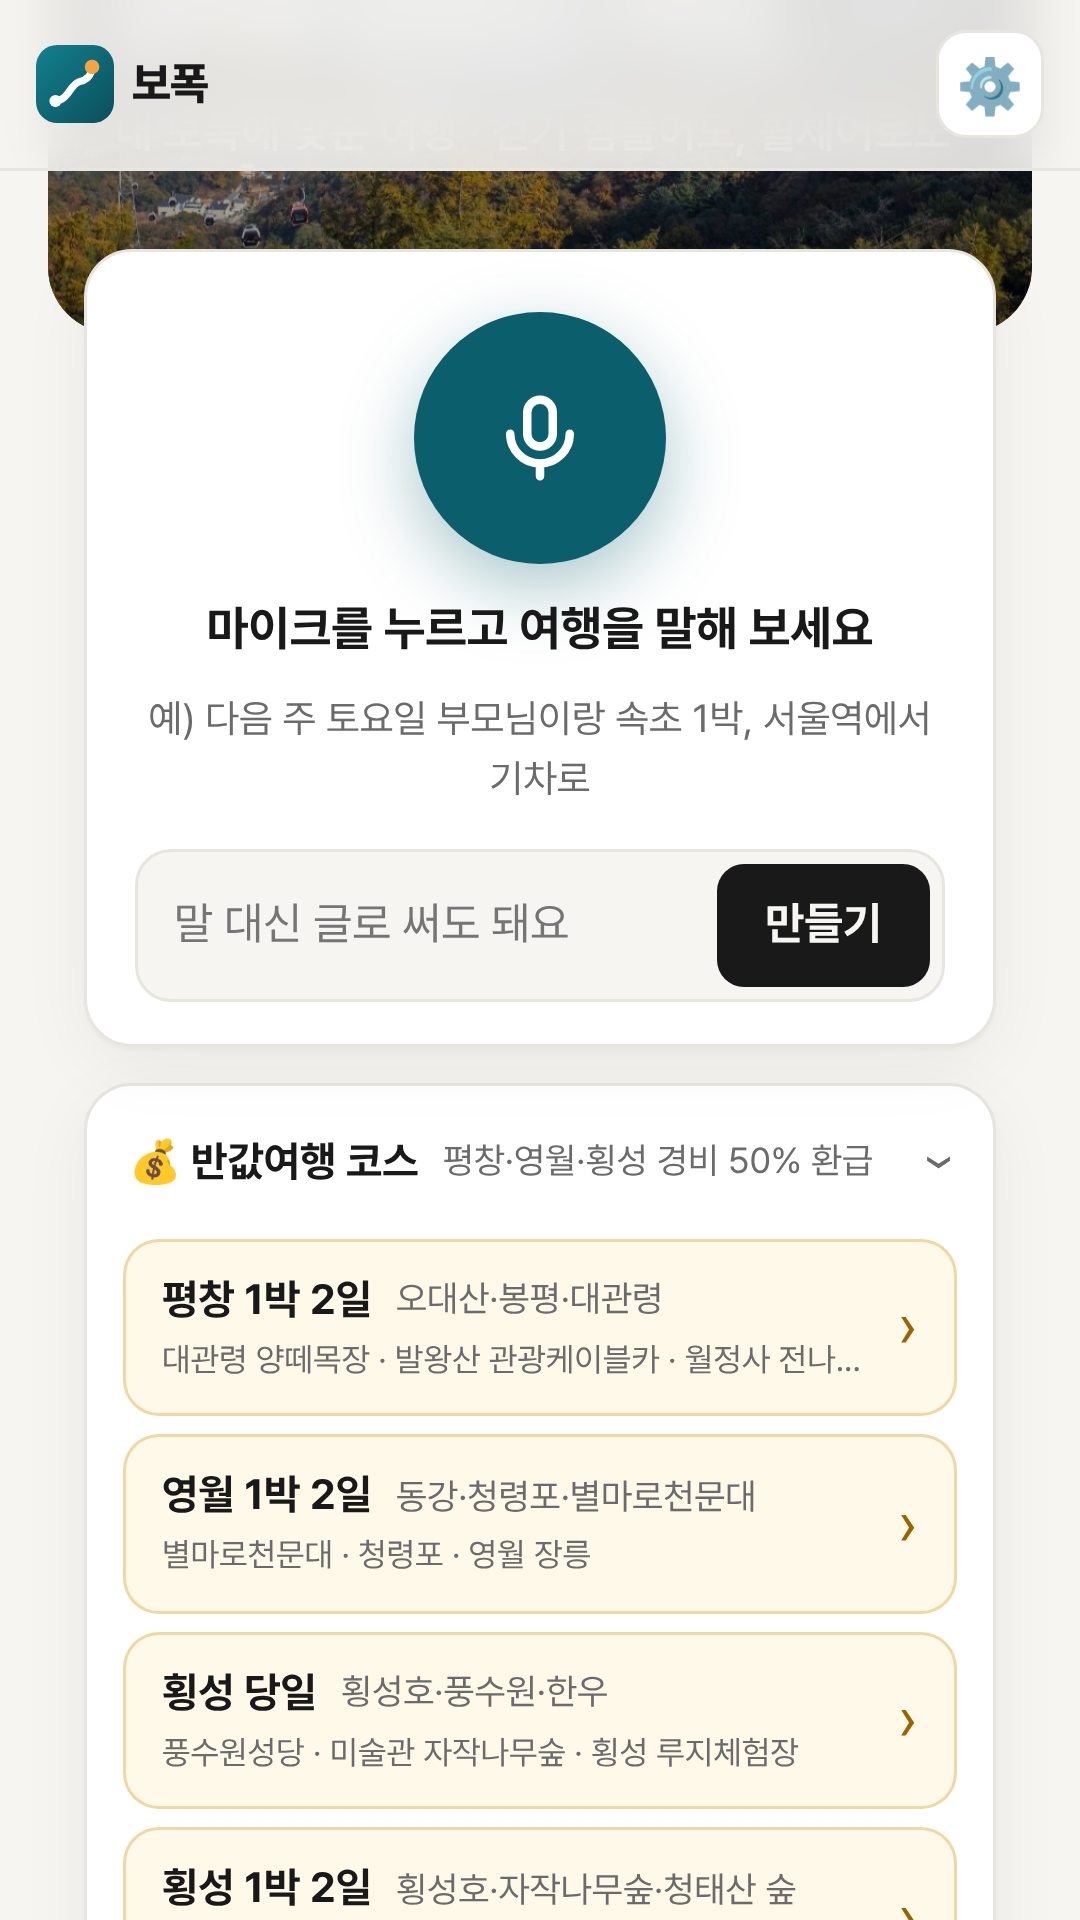
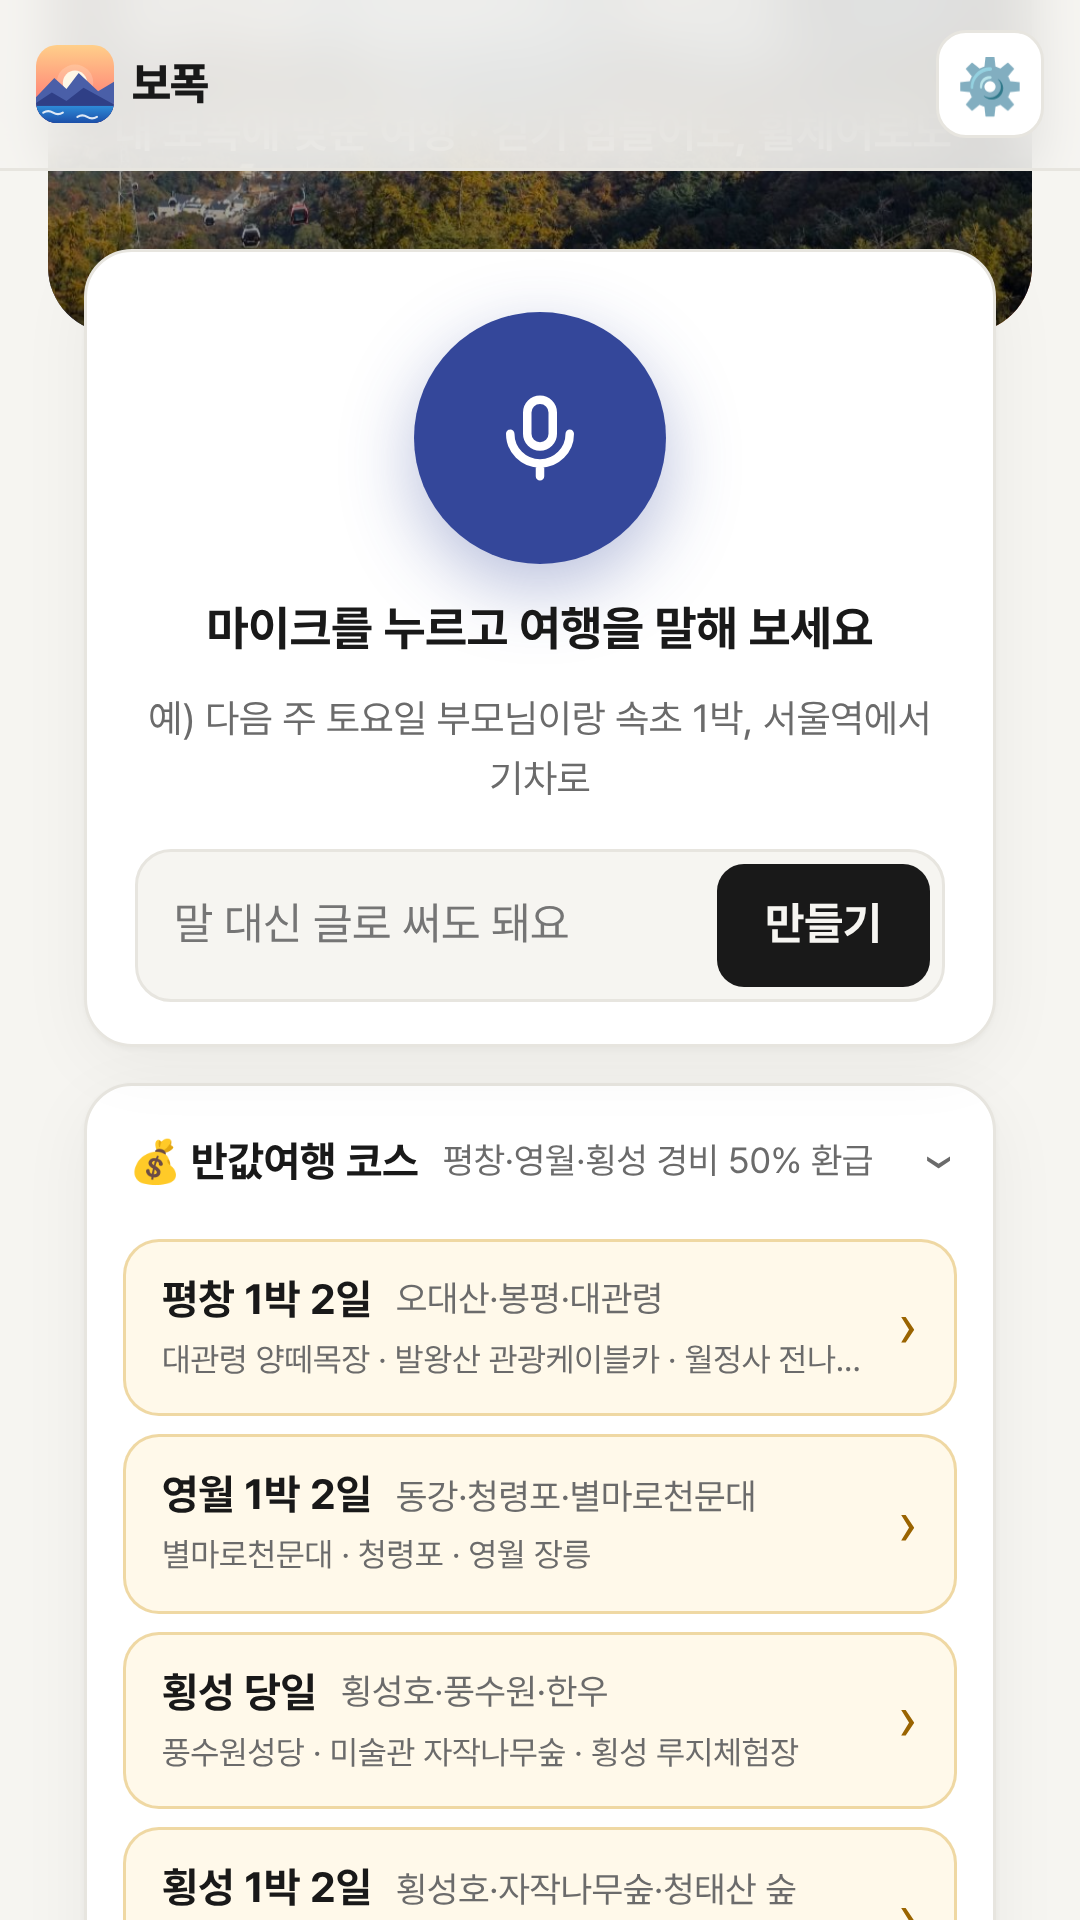
새 아이콘(강원 산 위 해돋이와 동해)과 남색·노을 색으로 바꾸기
- 아이콘: 노을 하늘, 겹친 산, 떠오르는 해, 동해 물결
- 안드로이드 적응형 아이콘 뒤판·앞판·테마(단색) 아이콘을 새 그림으로
- 앱 대표색을 남색(#34479a)으로, 첫 화면 바탕을 남색→노을빛으로 (글자 대비 8.4:1, 어두운 화면 8.3:1)
- 지도 경로·숙소 그림·상단 색·안드로이드 테마 색도 맞춤, 스토어 그래픽 다시 만들기
- 서비스 워커 캐시 v84

Claude-Session: https://claude.ai/code/session_01F97bc1LV9a97NyPAs5RF2H

Changed region(s): [[0.3667, 0.1562, 0.6417, 0.3125], [0.0306, 0.0, 0.1222, 0.0625]]

diff --git a/travel-planner/public/app.js b/travel-planner/public/app.js
@@ -1311,7 +1311,7 @@ function bookingReason(query) {
 // 사진이 없거나 못 받은 숙소는 숙소 종류 그림을 보여 준다 (사진 아래 층에 깔아 두어, 사진이 뜨면 가려진다)
 const STAY_ART = (() => {
   const bg = '<defs><linearGradient id="b" x1="0" y1="0" x2="0" y2="1"><stop offset="0" stop-color="#e3f1ef"/><stop offset="1" stop-color="#f6ecdc"/></linearGradient></defs><rect width="56" height="56" fill="url(#b)"/>';
-  const T = "#0b5e6b", M = "#5f9b9a", A = "#f2a541", W = "#ffffff";
+  const T = "#34479a", M = "#8c9bd0", A = "#f2a541", W = "#ffffff";
   const art = {
     ocean: `<circle cx="42" cy="15" r="5" fill="${A}"/><rect x="14" y="14" width="20" height="28" rx="2" fill="${T}"/><g fill="${W}"><rect x="18" y="19" width="4" height="4"/><rect x="26" y="19" width="4" height="4"/><rect x="18" y="27" width="4" height="4"/><rect x="26" y="27" width="4" height="4"/></g><rect y="42" width="56" height="14" fill="${M}"/><path d="M4 47q4-3 8 0t8 0t8 0t8 0t8 0t8 0" fill="none" stroke="${W}" stroke-width="2" stroke-linecap="round"/>`,
     business: `<rect x="10" y="18" width="16" height="30" rx="2" fill="${M}"/><rect x="24" y="10" width="22" height="38" rx="2" fill="${T}"/><g fill="${W}"><rect x="28" y="15" width="4" height="4"/><rect x="37" y="15" width="4" height="4"/><rect x="28" y="23" width="4" height="4"/><rect x="37" y="23" width="4" height="4"/><rect x="28" y="31" width="4" height="4"/><rect x="37" y="31" width="4" height="4"/><rect x="14" y="23" width="3" height="3"/><rect x="19" y="23" width="3" height="3"/><rect x="14" y="30" width="3" height="3"/><rect x="19" y="30" width="3" height="3"/></g><rect y="48" width="56" height="8" fill="${M}" opacity=".5"/>`,
@@ -1899,7 +1899,7 @@ function drawMap3D(day) {
     else {
       ml.addSource("route", { type: "geojson", data: geo });
       ml.addLayer({ id: "route-casing", type: "line", source: "route", layout: { "line-join": "round", "line-cap": "round" }, paint: { "line-color": "#ffffff", "line-width": 8, "line-opacity": 0.9 } });
-      ml.addLayer({ id: "route", type: "line", source: "route", layout: { "line-join": "round", "line-cap": "round" }, paint: { "line-color": "#0b5e6b", "line-width": 4.5 } });
+      ml.addLayer({ id: "route", type: "line", source: "route", layout: { "line-join": "round", "line-cap": "round" }, paint: { "line-color": "#34479a", "line-width": 4.5 } });
     }
     ml.setPaintProperty("route", "line-dasharray", model.known ? [1, 0] : [1.5, 1.5]);
   };
@@ -1941,7 +1941,7 @@ function drawMap2D(day) {
   layer = L.layerGroup().addTo(map);
   const model = mapModel(day);
   if (!day.items.length) return;
-  L.polyline(model.line, model.known ? { color: "#0b5e6b", weight: 5, opacity: 0.85 } : { color: "#0b5e6b", weight: 3, opacity: 0.6, dashArray: "6 6" }).addTo(layer);
+  L.polyline(model.line, model.known ? { color: "#34479a", weight: 5, opacity: 0.85 } : { color: "#34479a", weight: 3, opacity: 0.6, dashArray: "6 6" }).addTo(layer);
   if (!model.known) applyRoad(dayIdx);
   leafletPins = [...model.marks].sort((a, b) => Number(!a.base) - Number(!b.base)).map((m, i) => {
     const el = pinEl(m);
@@ -2439,7 +2439,7 @@ document.addEventListener("click", (e) => {
 function applyTheme(th) {
   if (th === "dark" || th === "light") document.documentElement.dataset.theme = th; else delete document.documentElement.dataset.theme;
   const dark = th === "dark" || (th !== "light" && window.matchMedia?.("(prefers-color-scheme: dark)").matches);
-  document.querySelector('meta[name="theme-color"]')?.setAttribute("content", dark ? "#121414" : "#0b5e6b");
+  document.querySelector('meta[name="theme-color"]')?.setAttribute("content", dark ? "#121414" : "#34479a");
 }
 applyTheme(localStorage.getItem("theme") || "system");
 const defaults = () => store.get("defaults") || {};

diff --git a/travel-planner/public/style.css b/travel-planner/public/style.css
@@ -4,8 +4,8 @@
   --text: #191919;
   --sub: #6b6b6b;
   --line: #e7e5df;
-  --brand: #0b5e6b;
-  --brand-soft: #e3f0f1;
+  --brand: #34479a;
+  --brand-soft: #eaedf9;
   --on-brand: #ffffff;
   --night: #6d28d9;
   --ok: #15803d;
@@ -17,13 +17,13 @@
 @media (prefers-color-scheme: dark) {
   :root:not([data-theme="light"]) {
     --bg: #121414; --surface: #1b1e1f; --text: #ececec; --sub: #9aa0a2;
-    --line: #2b3032; --brand: #5fb8c4; --brand-soft: #173438; --ok: #4ade80; --warn: #f87171; --on-brand: #06262b; --night: #c4b5fd;
+    --line: #2b3032; --brand: #9aabf2; --brand-soft: #1f2647; --ok: #4ade80; --warn: #f87171; --on-brand: #0e1430; --night: #c4b5fd;
     --shadow: none; color-scheme: dark;
   }
 }
 :root[data-theme="dark"] {
   --bg: #121414; --surface: #1b1e1f; --text: #ececec; --sub: #9aa0a2;
-  --line: #2b3032; --brand: #5fb8c4; --brand-soft: #173438; --ok: #4ade80; --warn: #f87171; --on-brand: #06262b; --night: #c4b5fd;
+  --line: #2b3032; --brand: #9aabf2; --brand-soft: #1f2647; --ok: #4ade80; --warn: #f87171; --on-brand: #0e1430; --night: #c4b5fd;
   --shadow: none; color-scheme: dark;
 }
 :root[data-theme="light"] { color-scheme: light; }
@@ -72,7 +72,7 @@ button { cursor: pointer; }
 .setup { max-width: 560px; margin: 0 auto; padding: 0 16px 48px; }
 .hero {
   position: relative; height: 220px; margin: 16px 0 -40px; border-radius: 22px; overflow: hidden;
-  background: var(--hero, none) center/cover, linear-gradient(135deg, #0b5e6b 0%, #2a8fa0 55%, #f2c27b 100%);
+  background: var(--hero, none) center/cover, linear-gradient(135deg, #2f3f86 0%, #5a6fc0 50%, #ff8f7a 100%);
 }
 .hero::after { content: ""; position: absolute; inset: 0; background: linear-gradient(180deg, rgba(0,0,0,.18) 0%, rgba(0,0,0,0) 28%, rgba(0,0,0,.05) 45%, rgba(0,0,0,.5)); }
 /* 오늘의 강원: 사진을 다 받은 뒤 서서히 (색 그라데이션 위로) */
@@ -188,7 +188,7 @@ html, body { overflow-x: clip; }
   width: 34px; height: 34px; display: grid; place-items: center; margin-bottom: 6px;
   background: #fff; color: #222; border: 2px solid rgba(0,0,0,.2); border-radius: 4px; background-clip: padding-box;
 }
-.locate:hover { color: #0b5e6b; }
+.locate:hover { color: #34479a; }
 .leaflet-control-attribution { font-size: 10px; }
 
 .toast {
@@ -253,7 +253,7 @@ html, body { overflow-x: clip; }
 /* AI */
 .ai-badge {
   display: inline-flex; align-items: center; gap: 4px; padding: 3px 9px; border-radius: 999px;
-  background: linear-gradient(135deg, #0b5e6b, #6d28d9); color: #fff; font-size: 12px; font-weight: 800; white-space: nowrap;
+  background: linear-gradient(135deg, #34479a, #f2668b); color: #fff; font-size: 12px; font-weight: 800; white-space: nowrap;
 }
 .ai-start { position: relative; z-index: 1; display: flex; align-items: center; gap: 8px; padding: 8px 8px 8px 12px; margin: 0 0 12px; }
 .ai-start input { flex: 1; min-width: 0; border: 0; background: transparent; padding: 10px 4px; outline: none; }
@@ -547,7 +547,7 @@ body.has-server .no-server { display: none !important; }
 .pin3d { position: relative; width: 0; height: 0; cursor: pointer; }
 .pin3d span {
   position: absolute; left: -15px; top: -15px; display: grid; place-items: center; width: 30px; height: 30px; border-radius: 50%;
-  background: var(--c, #0b5e6b); color: #fff; font-weight: 800; font-size: 14px; border: 2px solid #fff;
+  background: var(--c, #34479a); color: #fff; font-weight: 800; font-size: 14px; border: 2px solid #fff;
   box-shadow: 0 2px 8px rgba(0,0,0,.35); transition: transform .15s ease; z-index: 2;
 }
 .pin3d.base span { --c: #191919; width: 26px; height: 26px; left: -13px; top: -13px; font-size: 11px; opacity: .92; }

diff --git a/travel-planner/public/sw.js b/travel-planner/public/sw.js
@@ -2,7 +2,7 @@
 // - 앱 파일: 캐시에서 바로 보여주고 뒤에서 새 버전으로 갱신 (stale-while-revalidate)
 // - 지도 타일·사진: 한 번 받으면 캐시에서 (cache-first). 앱을 업데이트해도 지우지 않는 별도 캐시에 두고(산간 지역 오프라인용), 너무 많아지면 오래된 것부터 지운다
 // - AI·날씨·경로 등 API: 항상 네트워크
-const CACHE = "ohneul-gangwon-v83";
+const CACHE = "ohneul-gangwon-v84";
 const MEDIA_CACHE = "ohneul-gangwon-media-v1"; // 앱 버전과 따로 유지
 const MEDIA_MAX = 1500; // 지도 조각·사진 최대 개수 (조각 1개 약 10~30KB)
 const SHELL = ["./", "index.html", "style.css", "app.js", "booking-links.js", "planner.js", "data.js", "extra-places.js", "places-more.js", "pet-places.js", "pet.json", "access-data.js", "transit.js", "transit.json", "bus.json", "crowd.json", "parking.json", "parking-lots.json", "intro.json", "menu.json", "courses.json", "claim.html", "claim.js", "claim-parse.js", "claim.css", "vendor/exifr/exifr-lite.js", "vendor/fflate/fflate.js", "i18n.js", "data-en.json", "photos.json", "lodging-places.json", "fees.json", "costs.js", "alerts.js", "today.js", "split.js", "directory-place.js", "origins.js", "voice-parse.js", "sun.js", "ai-local.js", "guide-topics.js", "knowledge.js", "knowledge-intl.js", "i18n-cjk.js", "icon.svg", "icon-192.png", "apple-touch-icon.png", "manifest.webmanifest", "vendor/leaflet/leaflet.js", "vendor/leaflet/leaflet.css", "vendor/maplibre/maplibre-gl.js", "vendor/maplibre/maplibre-gl.css", "vendor/pretendard/pretendardvariable-dynamic-subset.css"];

diff --git a/travel-planner/public/claim.css b/travel-planner/public/claim.css
@@ -8,7 +8,7 @@
 .claim .grid2 label { margin: 8px 0; font-size: 13.5px; }
 .claim .chk { display: inline-flex !important; align-items: center; gap: 6px; margin: 6px 14px 6px 0 !important; }
 .claim .chk input { width: auto !important; margin: 0 !important; }
-.claim .drop { display: block; text-align: center; padding: 18px; border: 2px dashed var(--brand, #0b5e6b); border-radius: 12px; color: var(--brand, #0b5e6b); font-weight: 700; cursor: pointer; }
+.claim .drop { display: block; text-align: center; padding: 18px; border: 2px dashed var(--brand, #34479a); border-radius: 12px; color: var(--brand, #34479a); font-weight: 700; cursor: pointer; }
 .claim .drop.small { padding: 12px; margin-top: 10px; }
 .claim .table-wrap { overflow-x: auto; margin: 10px -4px; }
 .claim table { width: 100%; border-collapse: collapse; font-size: 13px; }

diff --git a/travel-planner/public/privacy.html b/travel-planner/public/privacy.html
@@ -5,7 +5,7 @@
 <meta name="viewport" content="width=device-width, initial-scale=1">
 <title>보폭 개인정보처리방침</title>
 <style>
-  :root { --text: #191919; --sub: #5f5f5f; --line: #e7e5df; --bg: #f6f5f1; --brand: #0b5e6b; }
+  :root { --text: #191919; --sub: #5f5f5f; --line: #e7e5df; --bg: #f6f5f1; --brand: #34479a; }
   @media (prefers-color-scheme: dark) { :root { --text: #ececec; --sub: #a8a8a8; --line: #333; --bg: #141414; --brand: #59b8c4; } }
   body { margin: 0; background: var(--bg); color: var(--text); font: 15px/1.65 -apple-system, "Pretendard", "Apple SD Gothic Neo", "Noto Sans KR", sans-serif; }
   main { max-width: 760px; margin: 0 auto; padding: 24px 16px 48px; }

diff --git a/travel-planner/public/index.html b/travel-planner/public/index.html
@@ -22,7 +22,7 @@
   <style>.i18n-wait body { visibility: hidden; }</style>
   <meta name="viewport" content="width=device-width, initial-scale=1, viewport-fit=cover">
   <title>보폭</title>
-  <meta name="theme-color" content="#0b5e6b">
+  <meta name="theme-color" content="#34479a">
   <link rel="manifest" href="manifest.webmanifest">
   <link rel="preconnect" href="https://tile.openstreetmap.org" crossorigin>
   <link rel="preconnect" href="https://router.project-osrm.org" crossorigin>
